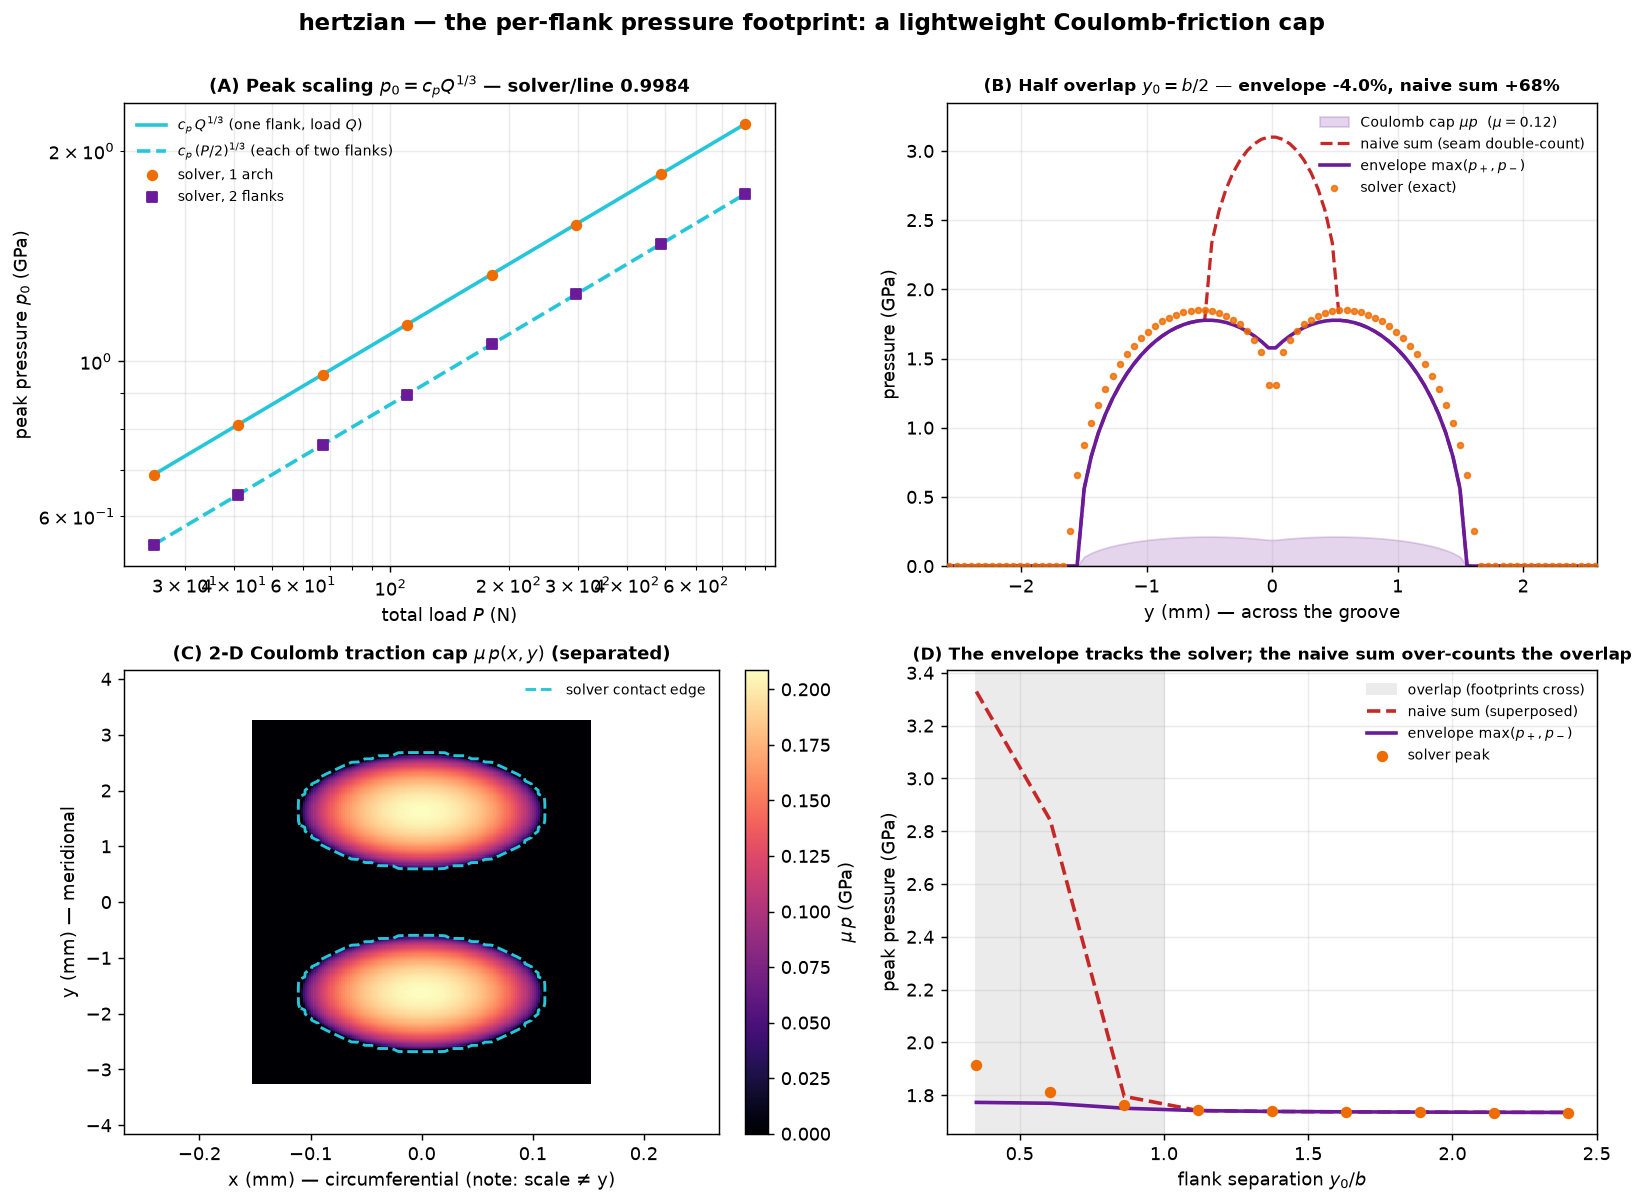
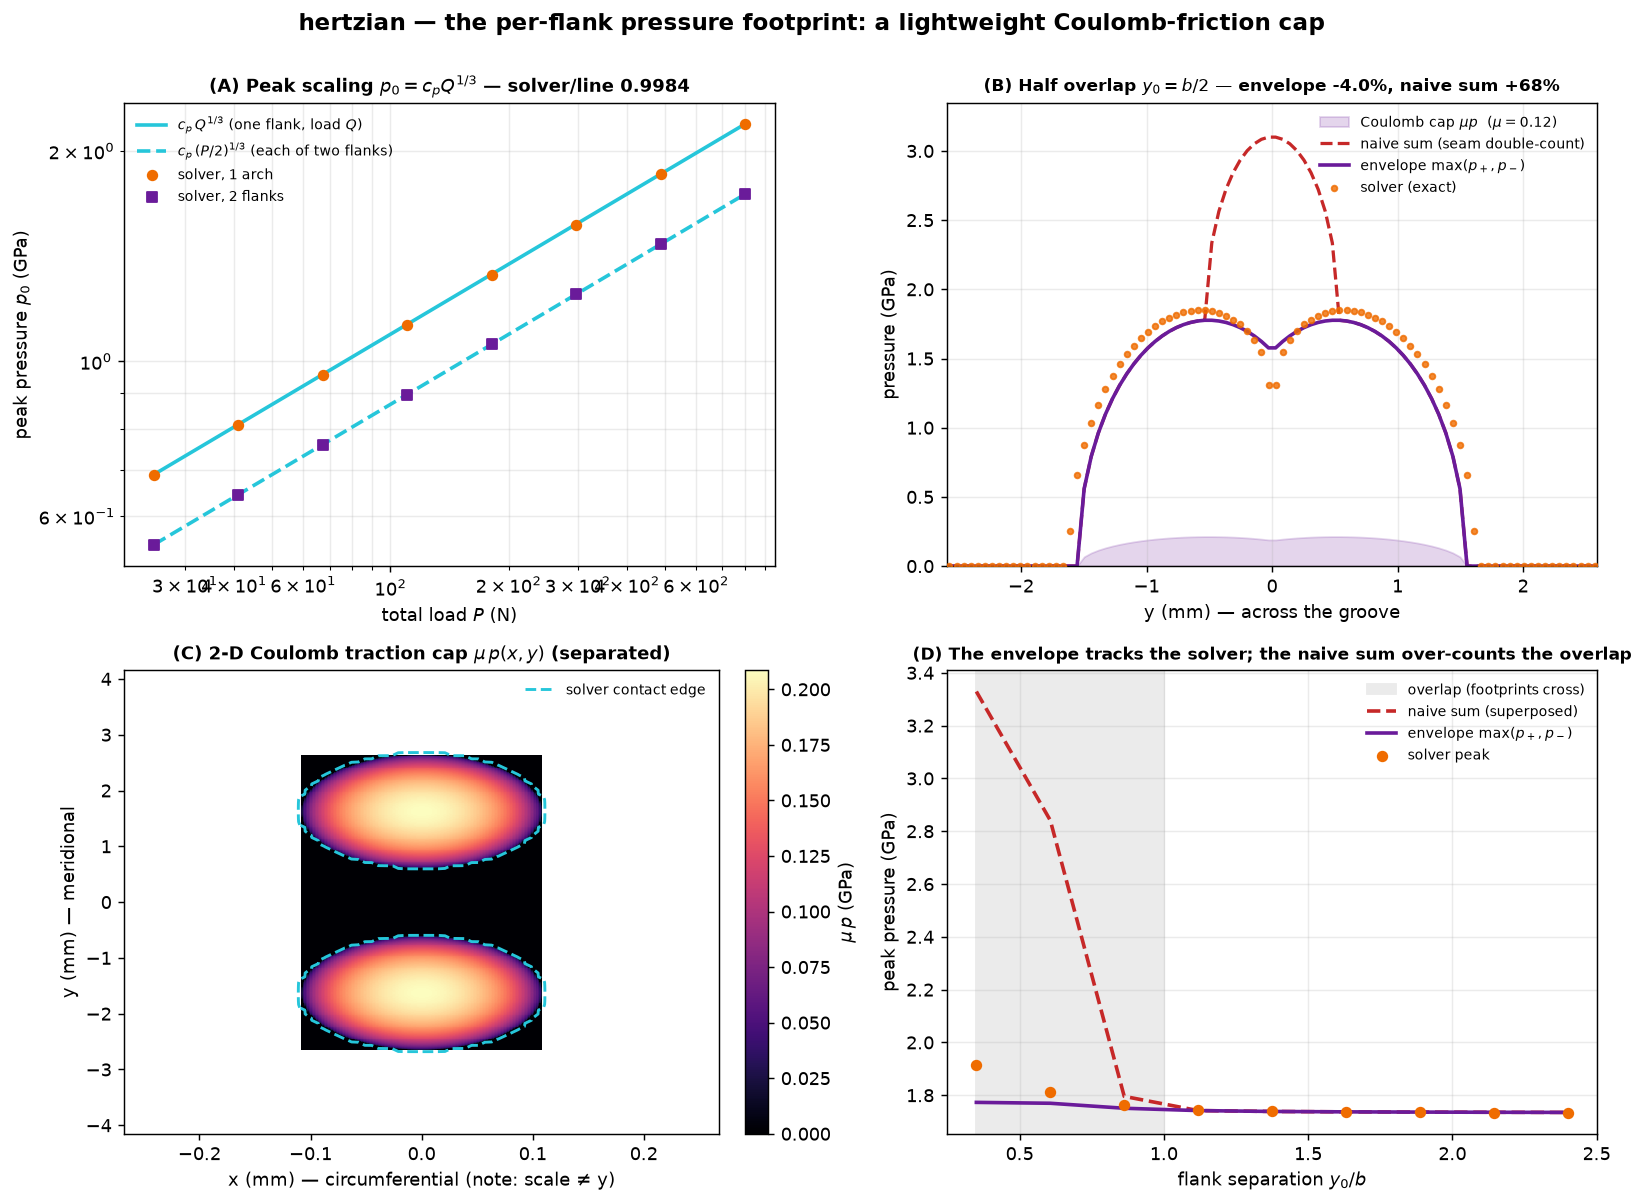
docs: build the pressure-cap gallery on pressure_mesh
The 2-D Coulomb-cap panels of the per-flank pressure gallery sampled the
cap by hand: the separated script re-derived the half-ellipsoid envelope
with np.maximum, and the asymmetric one looped pressure_at over a
meshgrid. PR #21 added PressureMesh / pressure_mesh(nx, ny) — the
(cell centre, per-cell normal load) lattice a discrete Coulomb solver
meshes the contact into — so make that the basis going forward.

Both panel (C)s now read mesh.x / mesh.y / mesh.pressure straight off
groove.pressure_mesh(), dropping the hand-rolled field. The separated
run also reports the meshed load to show the per-cell loads sum to the
contact load (Σ ΔP ≈ Q_+ + Q_-, so μ Σ ΔP = μ Q). Both gallery figures
regenerated; the panels are unchanged visually.

Claude-Session: https://claude.ai/code/session_01FVmaYdMP95TMJExGz244yP

Changed region(s): [[0.1551, 0.5844, 0.3723, 0.9227]]

diff --git a/scripts/render_pressure_distribution.py b/scripts/render_pressure_distribution.py
@@ -27,8 +27,10 @@ Four panels, drawn from a handful of full solves:
   connected saddle, within a few % of the solver). The shaded area is the Coulomb cap
   ``mu p`` a friction model rides under.
 * **(C) The 2-D Coulomb traction cap.** ``mu p(x, y)`` over the two (separated) flank
-  ellipses, with the solver's contact outline — the bound a tangential model integrates
-  to ``mu Q``.
+  ellipses, sampled straight off the cap with ``groove.pressure_mesh(nx, ny)`` — the
+  ``(cell centre, per-cell normal load)`` lattice a discrete Coulomb solver meshes the
+  contact into — with the solver's contact outline. The cells' normal loads sum to the
+  contact load, so the traction cap integrates to ``mu Q``.
 * **(D) Validity.** Envelope vs naive-sum peak against the solver as the shim closes: both
   exact where the footprints are *resolved* (``y0 >~ b``); in the overlap the sum
   over-counts the seam while the envelope tracks the solver, down to the deep merge left
@@ -399,10 +401,11 @@ def _panel_overlap_cut(ax: Axes, cut: OverlapCut) -> None:
 # --------------------------------------------------------------------------- #
 @dataclass(frozen=True)
 class SeparatedCap:
-    """One separated solve plus the reconstructed per-flank caps."""
+    """One separated solve plus the whole-groove cap meshed onto a cell lattice."""
 
     y0: float
-    cap_plus: hertzian.FlankPressure
+    groove: hertzian.GrooveContactPressure
+    mesh: hertzian.PressureMesh
     q_plus: float
     load_integral: float
     pressure: NDArray[np.float64]
@@ -411,7 +414,7 @@ class SeparatedCap:
 
 
 def separated_cap() -> SeparatedCap:
-    """Solve the separated groove and reconstruct its per-flank pressure caps."""
+    """Solve the separated groove and mesh its whole-groove Coulomb cap."""
     sol, y0, dx, dy = solve_groove(SEPARATED_SHIM, LOAD, cells=CELLS_PER_SEMI_FINE)
     delta = sol.approach
     pressure = np.asarray(sol.pressure)
@@ -421,11 +424,16 @@ def separated_cap() -> SeparatedCap:
 
     law = LAW.with_flank_coupling(e_star=E_STAR, offset=y0)
     q_plus, q_minus = law.coupled_loads(delta, delta)
-    cap_plus = law.flank_pressure(q_plus)
-    cap_minus = law.flank_pressure(q_minus)
+    groove = law.groove_pressure(q_plus, q_minus, offset=y0)
+    cap_plus, cap_minus = groove.flanks
+    # Mesh the envelope cap onto a regular cell lattice — the (cell centre, per-cell
+    # normal load) grid a discrete Coulomb solver meshes the contact into. This is
+    # what the panel draws, instead of re-deriving the half-ellipsoid by hand.
+    mesh = groove.pressure_mesh(nx=160, ny=320)
     return SeparatedCap(
         y0=y0,
-        cap_plus=cap_plus,
+        groove=groove,
+        mesh=mesh,
         q_plus=q_plus,
         load_integral=cap_plus.load + cap_minus.load,
         pressure=pressure,
@@ -436,19 +444,14 @@ def separated_cap() -> SeparatedCap:
 
 def _panel_traction_cap(ax: Axes, cap: SeparatedCap) -> None:
     """Draw the 2-D Coulomb traction cap mu p(x, y) with the solver contact outline."""
-    axp, ayp = cap.cap_plus.semi_axes
-    span_x = 1.4 * axp
-    span_y = cap.y0 + 1.6 * ayp
-    xs = np.linspace(-span_x, span_x, 160)
-    ys = np.linspace(-span_y, span_y, 320)
-    gx, gy = np.meshgrid(xs, ys, indexing="ij")
-    p0 = cap.cap_plus.peak_pressure
-    upper = p0 * np.sqrt(np.clip(1.0 - (gx / axp) ** 2 - ((gy - cap.y0) / ayp) ** 2, 0.0, None))
-    lower = p0 * np.sqrt(np.clip(1.0 - (gx / axp) ** 2 - ((gy + cap.y0) / ayp) ** 2, 0.0, None))
-    # The envelope (pointwise max) — identical to the sum here (disjoint footprints).
-    field = np.maximum(upper, lower)
-    mesh = ax.pcolormesh(gx * MM, gy * MM, MU * field * GPA, cmap="magma", shading="auto")
-    plt.colorbar(mesh, ax=ax, label=r"$\mu\,p$ (GPa)", fraction=0.046, pad=0.04)
+    # The cap field comes straight off pressure_mesh: it tiles the groove footprint
+    # into nx*ny cells and hands back the cell centres (mesh.x, mesh.y) and the
+    # envelope pressure sampled there — the same lattice a discrete Coulomb solver
+    # meshes the contact into, no hand-rolled half-ellipsoid.
+    mesh = cap.mesh
+    gx, gy = np.meshgrid(mesh.x, mesh.y, indexing="ij")
+    field = ax.pcolormesh(gx * MM, gy * MM, MU * mesh.pressure * GPA, cmap="magma", shading="auto")
+    plt.colorbar(field, ax=ax, label=r"$\mu\,p$ (GPa)", fraction=0.046, pad=0.04)
 
     # The solver's contact outline (where its pressure clears the contact floor).
     ax.contour(
@@ -553,6 +556,12 @@ def main() -> None:
         f"  separated footprint integrates to Q_+ + Q_- = {cap.load_integral:.2f} N "
         f"(coupled Q_+ = {cap.q_plus:.2f} N)  ->  full-sliding friction mu Q = "
         f"{MU * cap.load_integral:.2f} N"
+    )
+    nx_mesh, ny_mesh = cap.mesh.shape
+    print(
+        f"  pressure_mesh({nx_mesh}x{ny_mesh}) per-cell normal loads sum to "
+        f"{cap.mesh.total_force:.2f} N  ->  Coulomb cap mu*force sums to "
+        f"{MU * cap.mesh.total_force:.2f} N"
     )
 
     separations = np.linspace(0.35, 2.4, 9)

diff --git a/scripts/render_pressure_distribution_asymmetric.py b/scripts/render_pressure_distribution_asymmetric.py
@@ -39,7 +39,9 @@ Four panels, drawn from a handful of full solves:
   connected patch); the sum double-counts the overlap into a seam spike, while the
   envelope tracks the solver. The shaded band is the Coulomb cap ``mu p``.
 * **(C) The 2-D asymmetric Coulomb cap.** ``mu p(x, y)`` over the two *overlapping*,
-  unequal flank ellipses, with the solver's connected contact outline.
+  unequal flank ellipses, sampled straight off the cap with ``groove.pressure_mesh(nx,
+  ny)`` — the per-cell ``(centre, normal load)`` lattice a discrete Coulomb solver
+  meshes the contact into — with the solver's connected contact outline.
 * **(D) Interference across the shim.** Closing the shim from separated into overlap
   at the off-centre drive, the connected saddle rises; the naive sum's seam balloons
   with the overlap while the envelope follows the solver.
@@ -529,15 +531,14 @@ def _panel_traction_cap(ax: Axes, cut: OverlapCut) -> None:
     """Draw the 2-D Coulomb cap mu p(x, y) over the two overlapping flank ellipses."""
     solve = cut.solve
     upper, lower = cut.groove.flanks
-    axp, ayp = upper.semi_axes
-    span_x = 1.4 * axp
-    span_y = solve.y0 + 1.6 * ayp
-    xs = np.linspace(-span_x, span_x, 161)
-    ys = np.linspace(-span_y, span_y, 321)
-    gx, gy = np.meshgrid(xs, ys, indexing="ij")
-    field = np.array([[cut.groove.pressure_at(float(xx), float(yy)) for yy in ys] for xx in xs])
-    mesh = ax.pcolormesh(gx * MM, gy * MM, MU * field * GPA, cmap="magma", shading="auto")
-    plt.colorbar(mesh, ax=ax, label=r"$\mu\,p$ (GPa)", fraction=0.046, pad=0.04)
+    # The cap field comes straight off pressure_mesh: it tiles the connected footprint
+    # into nx*ny cells and hands back the cell centres (mesh.x, mesh.y) and the
+    # envelope pressure there — the lattice a discrete Coulomb solver meshes the
+    # contact into, no hand-rolled grid loop over pressure_at.
+    mesh = cut.groove.pressure_mesh(nx=161, ny=321)
+    gx, gy = np.meshgrid(mesh.x, mesh.y, indexing="ij")
+    field = ax.pcolormesh(gx * MM, gy * MM, MU * mesh.pressure * GPA, cmap="magma", shading="auto")
+    plt.colorbar(field, ax=ax, label=r"$\mu\,p$ (GPa)", fraction=0.046, pad=0.04)
 
     # The solver's connected contact outline (where its pressure clears the floor).
     ax.contour(